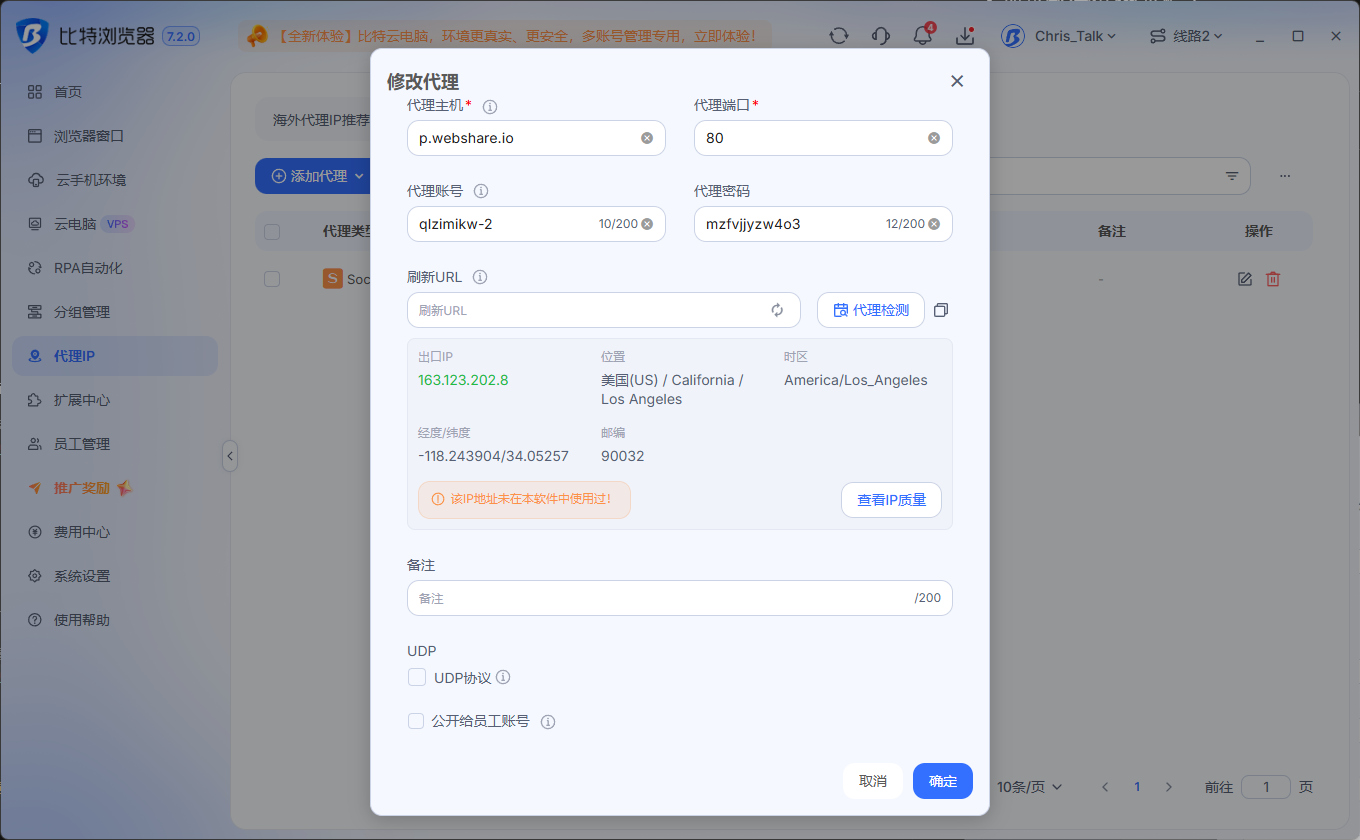
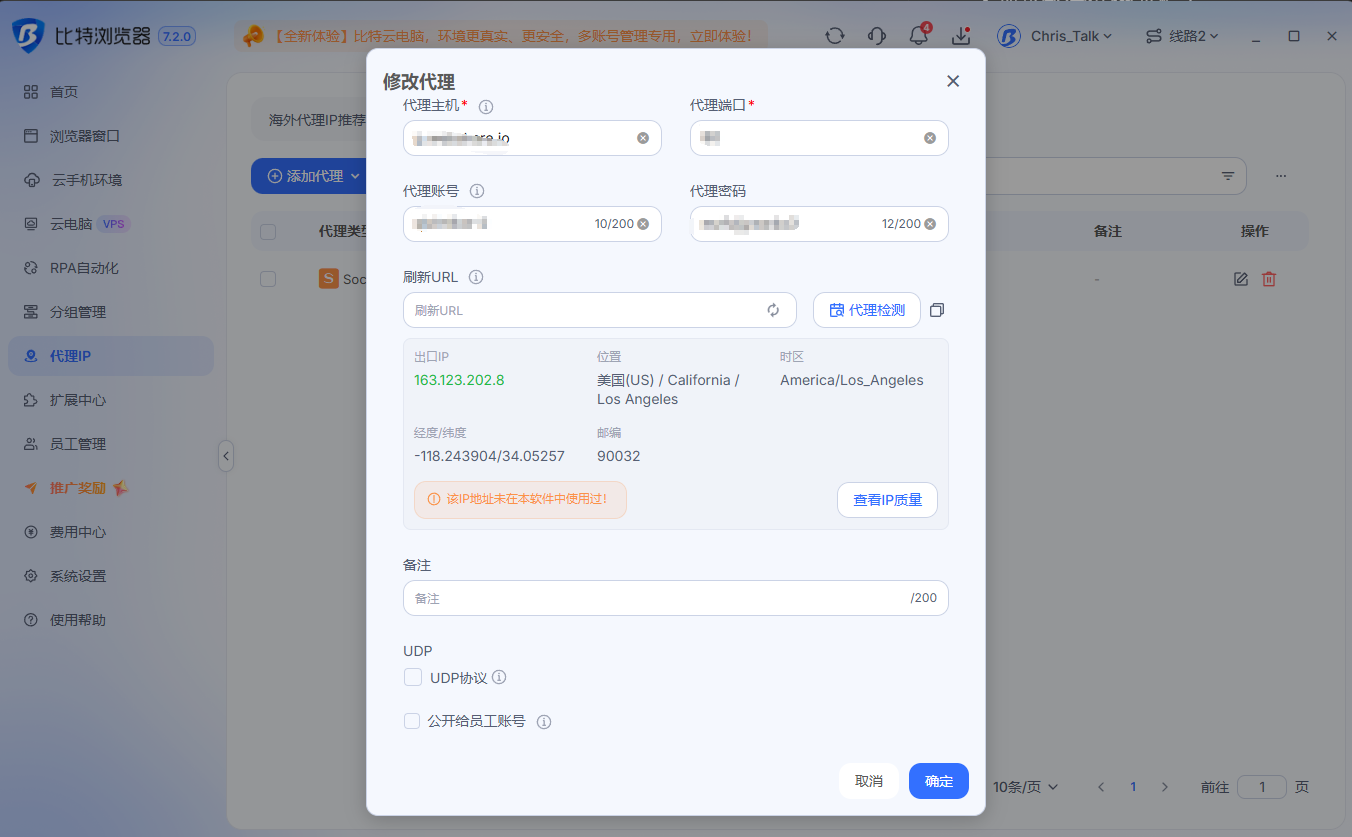
1111

diff --git a/docs/blog/posts/2026-11-04-hy2.bite指纹浏览器.md b/docs/blog/posts/2026-11-04-hy2.bite指纹浏览器.md
@@ -12,10 +12,10 @@ tags:
 
 # 🎁 比特指纹浏览器配置环境，并使用 Wovia 虚拟卡白嫖一月 ChatGPT
 
-![封面图](../../assets/images/photomode_01082023_035351.jpg){ style="display:block; width:900px; max-width:100%; height:auto; margin:24px auto 14px; border-radius:10px; box-shadow:0 6px 18px rgba(0,0,0,0.16);" }
+![封面图](../../assets/images/2026-11-04-3.png){ style="display:block; width:900px; max-width:100%; height:auto; margin:24px auto 14px; border-radius:10px; box-shadow:0 6px 18px rgba(0,0,0,0.16);" }
 
 <div style="margin: 0 0 25px; text-align: center;">
-  <a href="https://youtu.be/hVe9xlYEATI?si=__QEIFCwzK_Z3rnF"
+  <a href="https://youtu.be/6hosHx-Ad_A?si=Zc1F3W6XavDwDPI_"
      target="_blank"
      rel="noopener noreferrer"
      class="md-button md-button--neutral"
